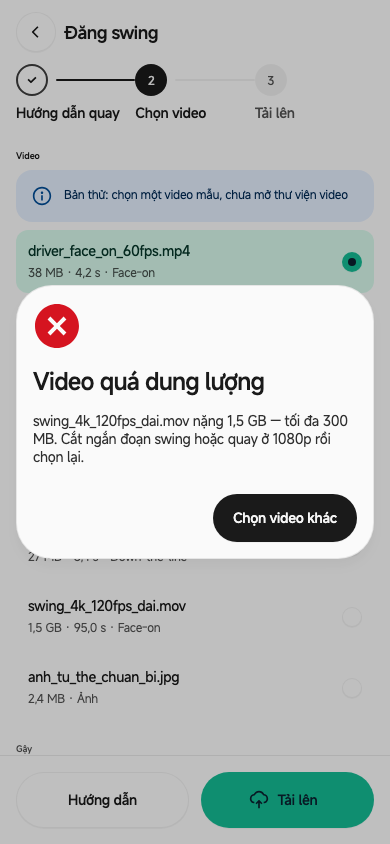
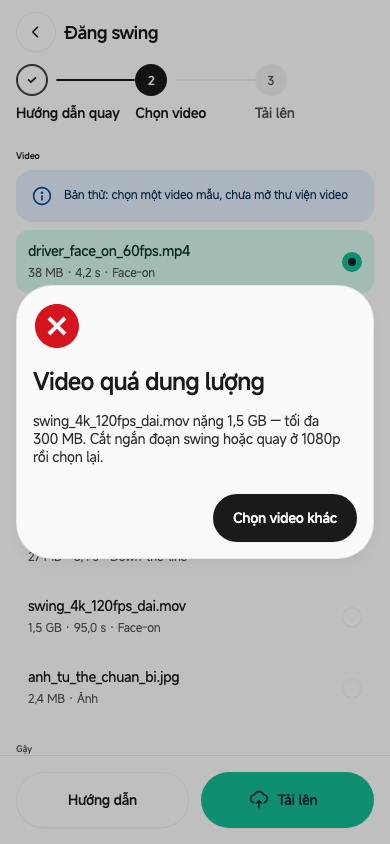
fix(clubs): nhóm Flex có tên cho trình đọc; ô Bounce không biến mất khi xoá trống; HLV xem gậy lưu trữ không đọc "Khôi phục"; "300 MB" không gãy dòng
- clubs/new: hàng chip Flex accessibilityRole="radiogroup" + nhãn "Flex" (như sheet Loại gậy)
- clubs/new: gậy không phải wedge đã có bounce → ô Bounce giữ nguyên khi xoá trống (ref chốt "đã gõ bounce"); đổi wedge → loại khác
  khi ô trống vẫn ẩn như cũ. Lưu/Thử lại gỡ toast lỗi cũ trước (setFailed(false))
- clubs/[id]: thông báo gậy lưu trữ chỉ nối "Khôi phục để dùng lại." khi là chủ gậy (HLV không có nút khôi phục); Xoá/Thử lại gỡ toast lỗi cũ
- swings/new: "tối đa 300 MB" nối NBSP; chụp lại f07--b-05

Changed region(s): [[0.0923, 0.4929, 0.8923, 0.5545]]

diff --git a/apps/golf/app/clubs/new.tsx b/apps/golf/app/clubs/new.tsx
@@ -1,4 +1,4 @@
-import { useState } from 'react';
+import { useRef, useState } from 'react';
 import { ScrollView, View } from 'react-native';
 import { Redirect, router } from 'expo-router';
 import { BottomSheet, Button, Chip, Divider, PopoverItem, Screen, SelectField, Text, TextField, useTheme } from '@gr/ds';
@@ -31,7 +31,10 @@ export function ClubForm({ initial, onSubmit }: { initial?: Club; onSubmit: (clu
   const errors = submitted ? result.errors : {};
   const invalid = Object.keys(result.errors).length;
   const suggested = raw.type ? defaultLoft(raw.type) : undefined;
-  const showBounce = (raw.type !== undefined && WEDGES.includes(raw.type)) || raw.bounceDeg.trim() !== '';
+  // gậy không phải wedge có bounce: ô đã hiện thì giữ — xoá trống ô không làm ô biến mất (mất focus / bàn phím)
+  const bounceTyped = useRef(false);
+  bounceTyped.current ||= raw.bounceDeg.trim() !== '';
+  const showBounce = (raw.type !== undefined && WEDGES.includes(raw.type)) || bounceTyped.current;
   const set = (key: InputKey, v: string) => setRaw((r) => ({ ...r, [key]: v }));
   const pickType = (type: ClubType) => {
     setRaw((r) => ({ ...r, type, loftDeg: loftOnTypeChange(r.loftDeg, r.type, type) }));
@@ -39,6 +42,7 @@ export function ClubForm({ initial, onSubmit }: { initial?: Club; onSubmit: (clu
   };
   const save = () => {
     setSubmitted(true);
+    setFailed(false); // toast lỗi lần trước gỡ ra → lỗi lần này hiện lại đủ giờ
     if (!result.value || !me) return;
     const club = { ...initial, id, playerId: initial?.playerId ?? me.id, ...result.value };
     run(
@@ -74,7 +78,7 @@ export function ClubForm({ initial, onSubmit }: { initial?: Club; onSubmit: (clu
           {text('shaftBrand', 'Hãng cán', 'VD: Fujikura Ventus Blue 6')}
           <View style={{ gap: t.size('Input/Spacing-Regt/Medium/Outside-Field-Gap') }}>
             <Text variant="Label/Small/DemiBold" color="Color/Content/Neutral/Light">Flex</Text>
-            <View style={{ flexDirection: 'row', flexWrap: 'wrap', gap: t.space('Spacing/Gap/XSmall') }}>
+            <View accessibilityRole="radiogroup" accessibilityLabel="Flex" style={{ flexDirection: 'row', flexWrap: 'wrap', gap: t.space('Spacing/Gap/XSmall') }}>
               {SHAFT_FLEXES.map((f) => (
                 <Chip key={f} size="Medium" text={f} select={raw.shaftFlex === f} onPress={() => setRaw((r) => ({ ...r, shaftFlex: f }))} />
               ))}
@@ -130,10 +134,7 @@ export function ClubForm({ initial, onSubmit }: { initial?: Club; onSubmit: (clu
           title="Lưu thất bại"
           caption="Mất kết nối — gậy chưa được lưu, form giữ nguyên."
           actionText="Thử lại"
-          onAction={() => {
-            setFailed(false);
-            save();
-          }}
+          onAction={save}
           onDone={() => setFailed(false)}
         />
       )}

diff --git a/apps/golf/app/clubs/[id]/index.tsx b/apps/golf/app/clubs/[id]/index.tsx
@@ -30,7 +30,8 @@ export default function ClubDetail() {
   if (!me) return <Redirect href="/" />;
   const club = clubById(state, id);
   const back = () => (router.canGoBack() ? router.back() : router.replace('/clubs'));
-  const removeClub = () =>
+  const removeClub = () => {
+    setFailed(false); // toast lỗi lần trước gỡ ra → lỗi lần này hiện lại đủ giờ
     run(
       () => {
         deleteOnLeave();
@@ -38,6 +39,7 @@ export default function ClubDetail() {
       },
       () => setFailed(true),
     );
+  };
   if (!club || !canViewPrivate(state, me.id, club.playerId)) {
     return (
       <Screen>
@@ -85,7 +87,7 @@ export default function ClubDetail() {
       <ScrollView contentContainerStyle={{ paddingVertical: t.space('Spacing/Padding/Medium'), gap: t.space('Spacing/Gap/Large') }}>
         {club.archivedAt && (
           <View style={{ paddingHorizontal: t.layout('Margin-Small') }}>
-            <InlineMessage text={`Đã lưu trữ ngày ${formatDate(club.archivedAt)} — gậy ẩn khỏi danh sách và chọn gậy, dữ liệu cũ giữ nguyên. Khôi phục để dùng lại.`} />
+            <InlineMessage text={`Đã lưu trữ ngày ${formatDate(club.archivedAt)} — gậy ẩn khỏi danh sách và chọn gậy, dữ liệu cũ giữ nguyên.${own ? ' Khôi phục để dùng lại.' : ''}`} />
           </View>
         )}
         <Section title="Thông số">
@@ -201,10 +203,7 @@ export default function ClubDetail() {
           title="Xoá thất bại"
           caption="Mất kết nối — gậy vẫn còn."
           actionText="Thử lại"
-          onAction={() => {
-            setFailed(false);
-            removeClub();
-          }}
+          onAction={removeClub}
           onDone={() => setFailed(false)}
         />
       )}

diff --git a/apps/golf/app/swings/new.tsx b/apps/golf/app/swings/new.tsx
@@ -209,7 +209,7 @@ export default function SwingNew() {
           !rejected
             ? ''
             : videoFileError(rejected) === 'too_large'
-              ? `${rejected.fileName} nặng ${formatSize(rejected.sizeMb)} — tối đa ${MAX_VIDEO_MB} MB. Cắt ngắn đoạn swing hoặc quay ở 1080p rồi chọn lại.`
+              ? `${rejected.fileName} nặng ${formatSize(rejected.sizeMb)} — tối đa ${MAX_VIDEO_MB} MB. Cắt ngắn đoạn swing hoặc quay ở 1080p rồi chọn lại.`
               : `${rejected.fileName} là ảnh, không phân tích swing được. Chọn một video (.mp4, .mov).`
         }
         primaryText="Chọn video khác"
